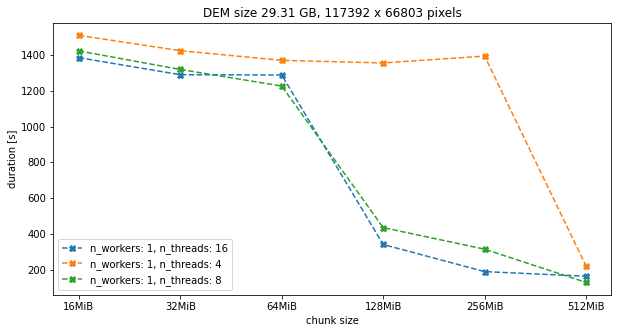
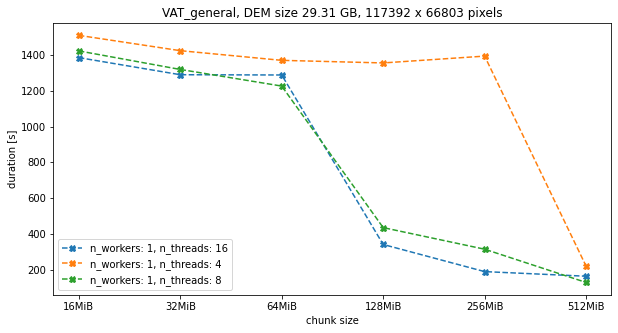
Added computation times for 2 workers.

Changed region(s): [[0.246, 0.0, 0.8301, 0.0601]]

diff --git a/TODO.md b/TODO.md
@@ -60,14 +60,16 @@ Additionally, try improving [graph serialization](https://docs.dask.org/en/lates
 1. read data in as a task instead of include it directly (queue?),
 2. pre-scatter large data,
 3. wrap in dask.delayed,
-4. revert to dask version [2022.01.1](https://github.com/dask/distributed/issues/5960).
+4. possible leak on Local Cluster, revert to dask version [2022.01.1](https://github.com/dask/distributed/issues/5960).
 - Raster datasets are usually stored in blocks (tiles). It is better to  make dask chunks **N * original tile dimensions** to avoid bringing up more data than is needed each time the data is accesed. If `chunks = True` when loading data with `rioxarray.open_rasterio ` automatic chunkig is done in a way that takes into account default tiling and **N** is determined in a way that each chunk size is 128MiB (_Dask default, better performance and higher success/failed to finish ratio was recorded with smaller chunk size, but it depends on the hardware and data size...scalability?_). Set chunk size `dask.config.set({"array.chunk-size": limit})`. 
 Graphs below were generated as results of computations with dask distributed, running Local Cluster on a machine with total of 32 GB RAM (`psutil.virtual_memory().total = 32 GB`) and 16 cores (`sum(client.ncores().values()) = 16`). Aprox. 64 MiB equals chunk of size (4096, 4096) = 32 * (128, 128).
 
 ![Comparision for chunk_size 8MiB, 16Mib, 32Mib, 64MiB, 128MiB, 256MiB, 512MiB. Calculation VAT_Combined - combined, float32. Save tif to disk.](./docs/bmarks/csize_wt_ratio.png)
-- Can't "replicate" entire graph above running `dask_VAT_combined` - _general_ on very large rasters (e.g. 30 GB). [Problems](https://github.com/dask/distributed/issues/2602) if chunks are bigger and/or number of workers is higher. Plot only for 1 worker, different number of threads and chunk sizes (Markers ploted below 500 s are crashes = memory allocation errors). See possible memory issues above. Apply some sort of queue to limit chunks or tasks being processed at the same time, for smoother processing/without pausing workers so much? Why is there such a difference in processing 2 GB vs 30 GB file with same chunksizes and worker/threads ratios?
+- Can't "replicate" entire graph above running `dask_VAT_combined` - _general_ on very large rasters (e.g. 30 GB). [Problems](https://github.com/dask/distributed/issues/2602) if chunks are bigger and/or number of workers is higher. Plot only for 1 worker, different number of threads and chunk sizes (All markers ploted below 1000 s are crashes = memory allocation errors). See possible memory issues above. Apply some sort of queue to limit chunks or tasks being processed at the same time, for smoother processing/without pausing workers so much? Why is there such a difference in processing 2 GB vs 30 GB file with same chunksizes and worker/threads ratios?
 
-![Comparision for 1 worker, different chunksizes. Calculation VAT_Combined - general, float32. Save tif to disk.](./docs/bmarks/1w_large_vatgeneral.png)
+![Comparision for 1 worker, different chunksizes. Calculation VAT_general, float32. Save tif to disk.](./docs/bmarks/1w_large_vatgeneral.png)
+
+![Comparision for 2 workers, different chunksizes. Calculation VAT_general, float32. Save tif to disk.](./docs/bmarks/2w_large_vatgeneral.png)
 - If overlap depth is greater than any chunk along a particular axis, then the array is rechunked -> Strange behavior, may result in error at blending step.
 - _Multi_hillshade_ (if saving directly from `vis.py`)results is very large (chunk depth and final) output of file size: _nr_directions * original raster file size_. Calculation in each direction is additional raster band.
 - Metadata and the file naming convention when reading _.tif_ raster with `rioxarray.open_rasterio`. Understanding how the data is structured (e.g. assumes dims[1:] are named 'x' and 'y'. Name(s) of the bands (not always the same)? Indexing position always true (e.g. `dims[0]= 'band'`, `dims[1] = 'y'`, `dims[2] = 'x'`)?
